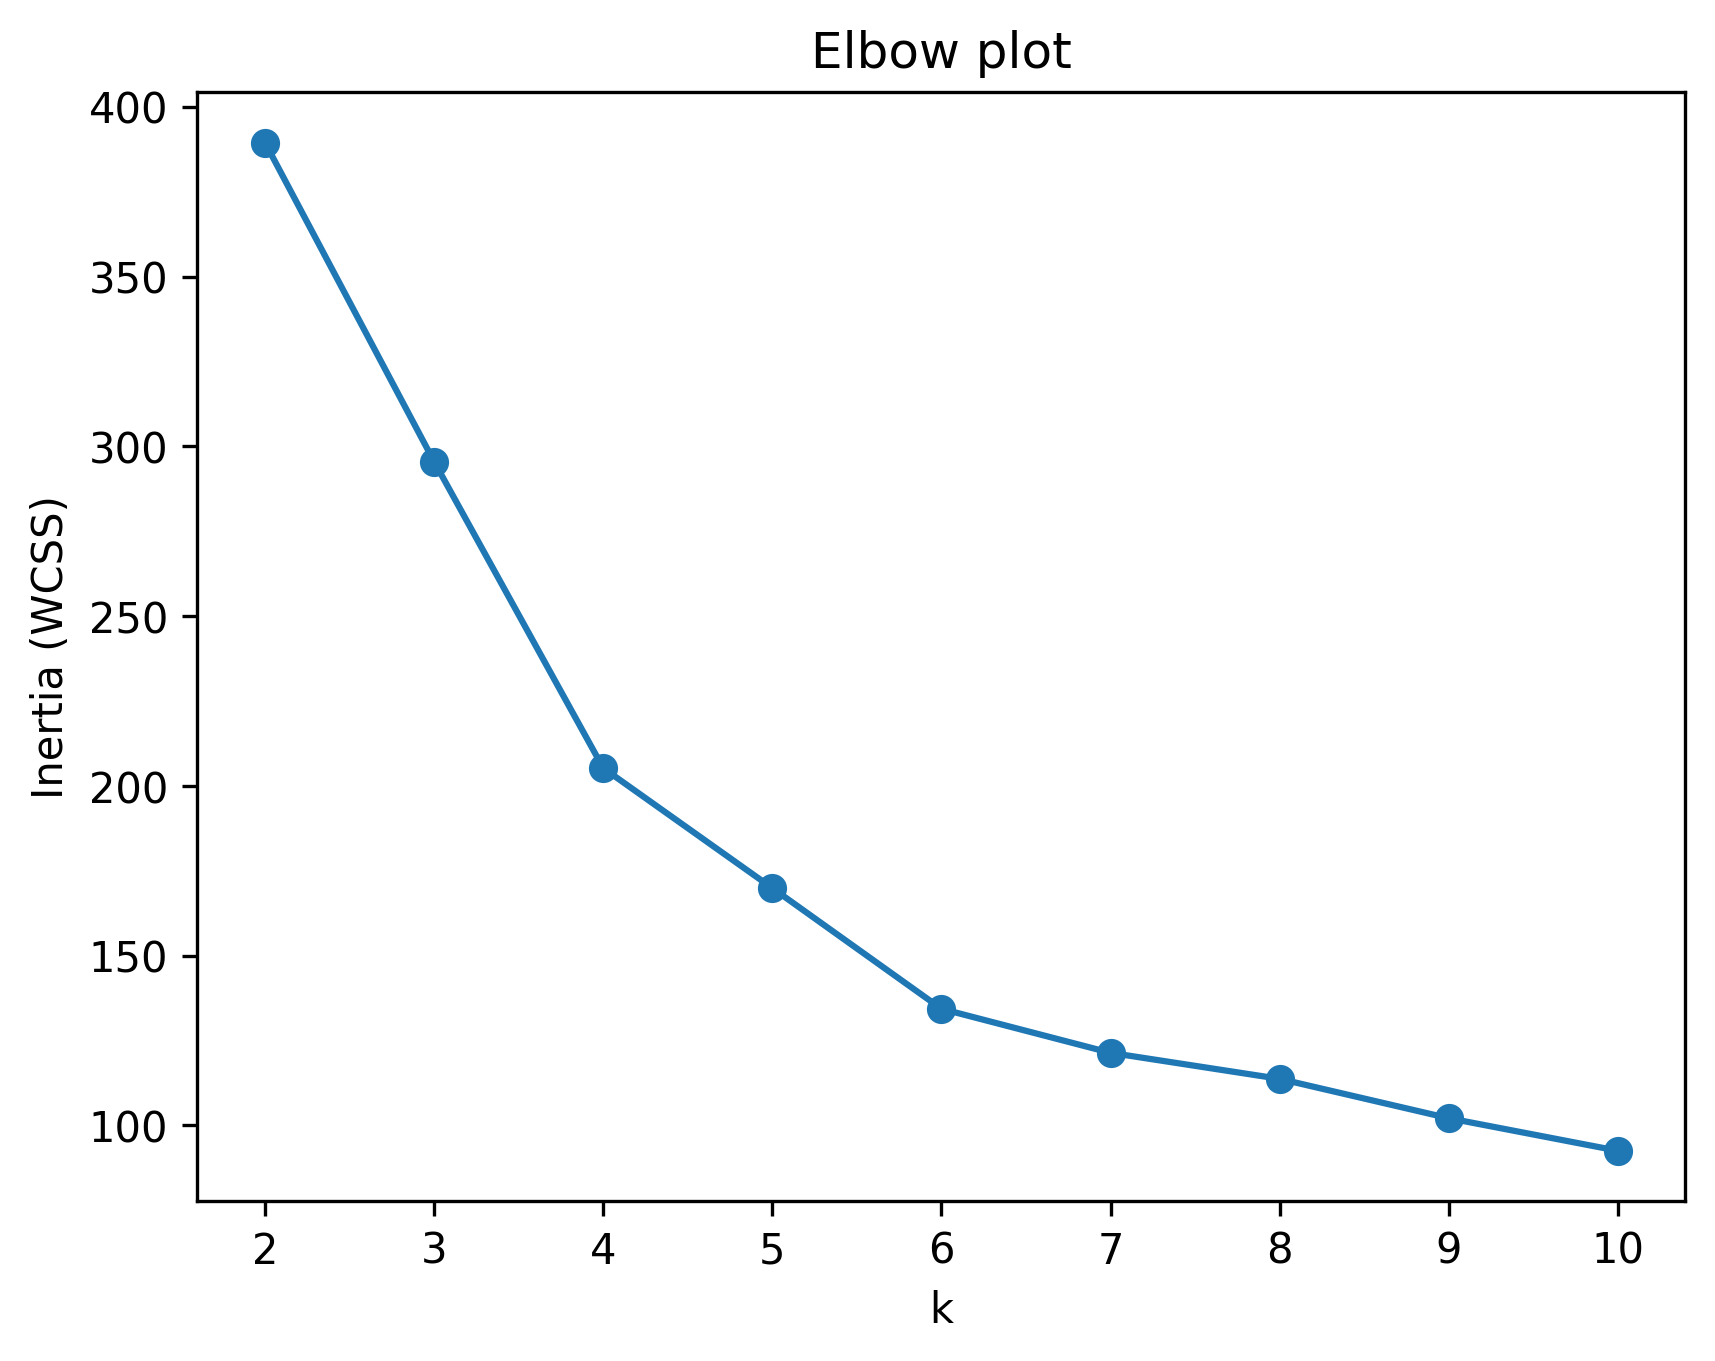
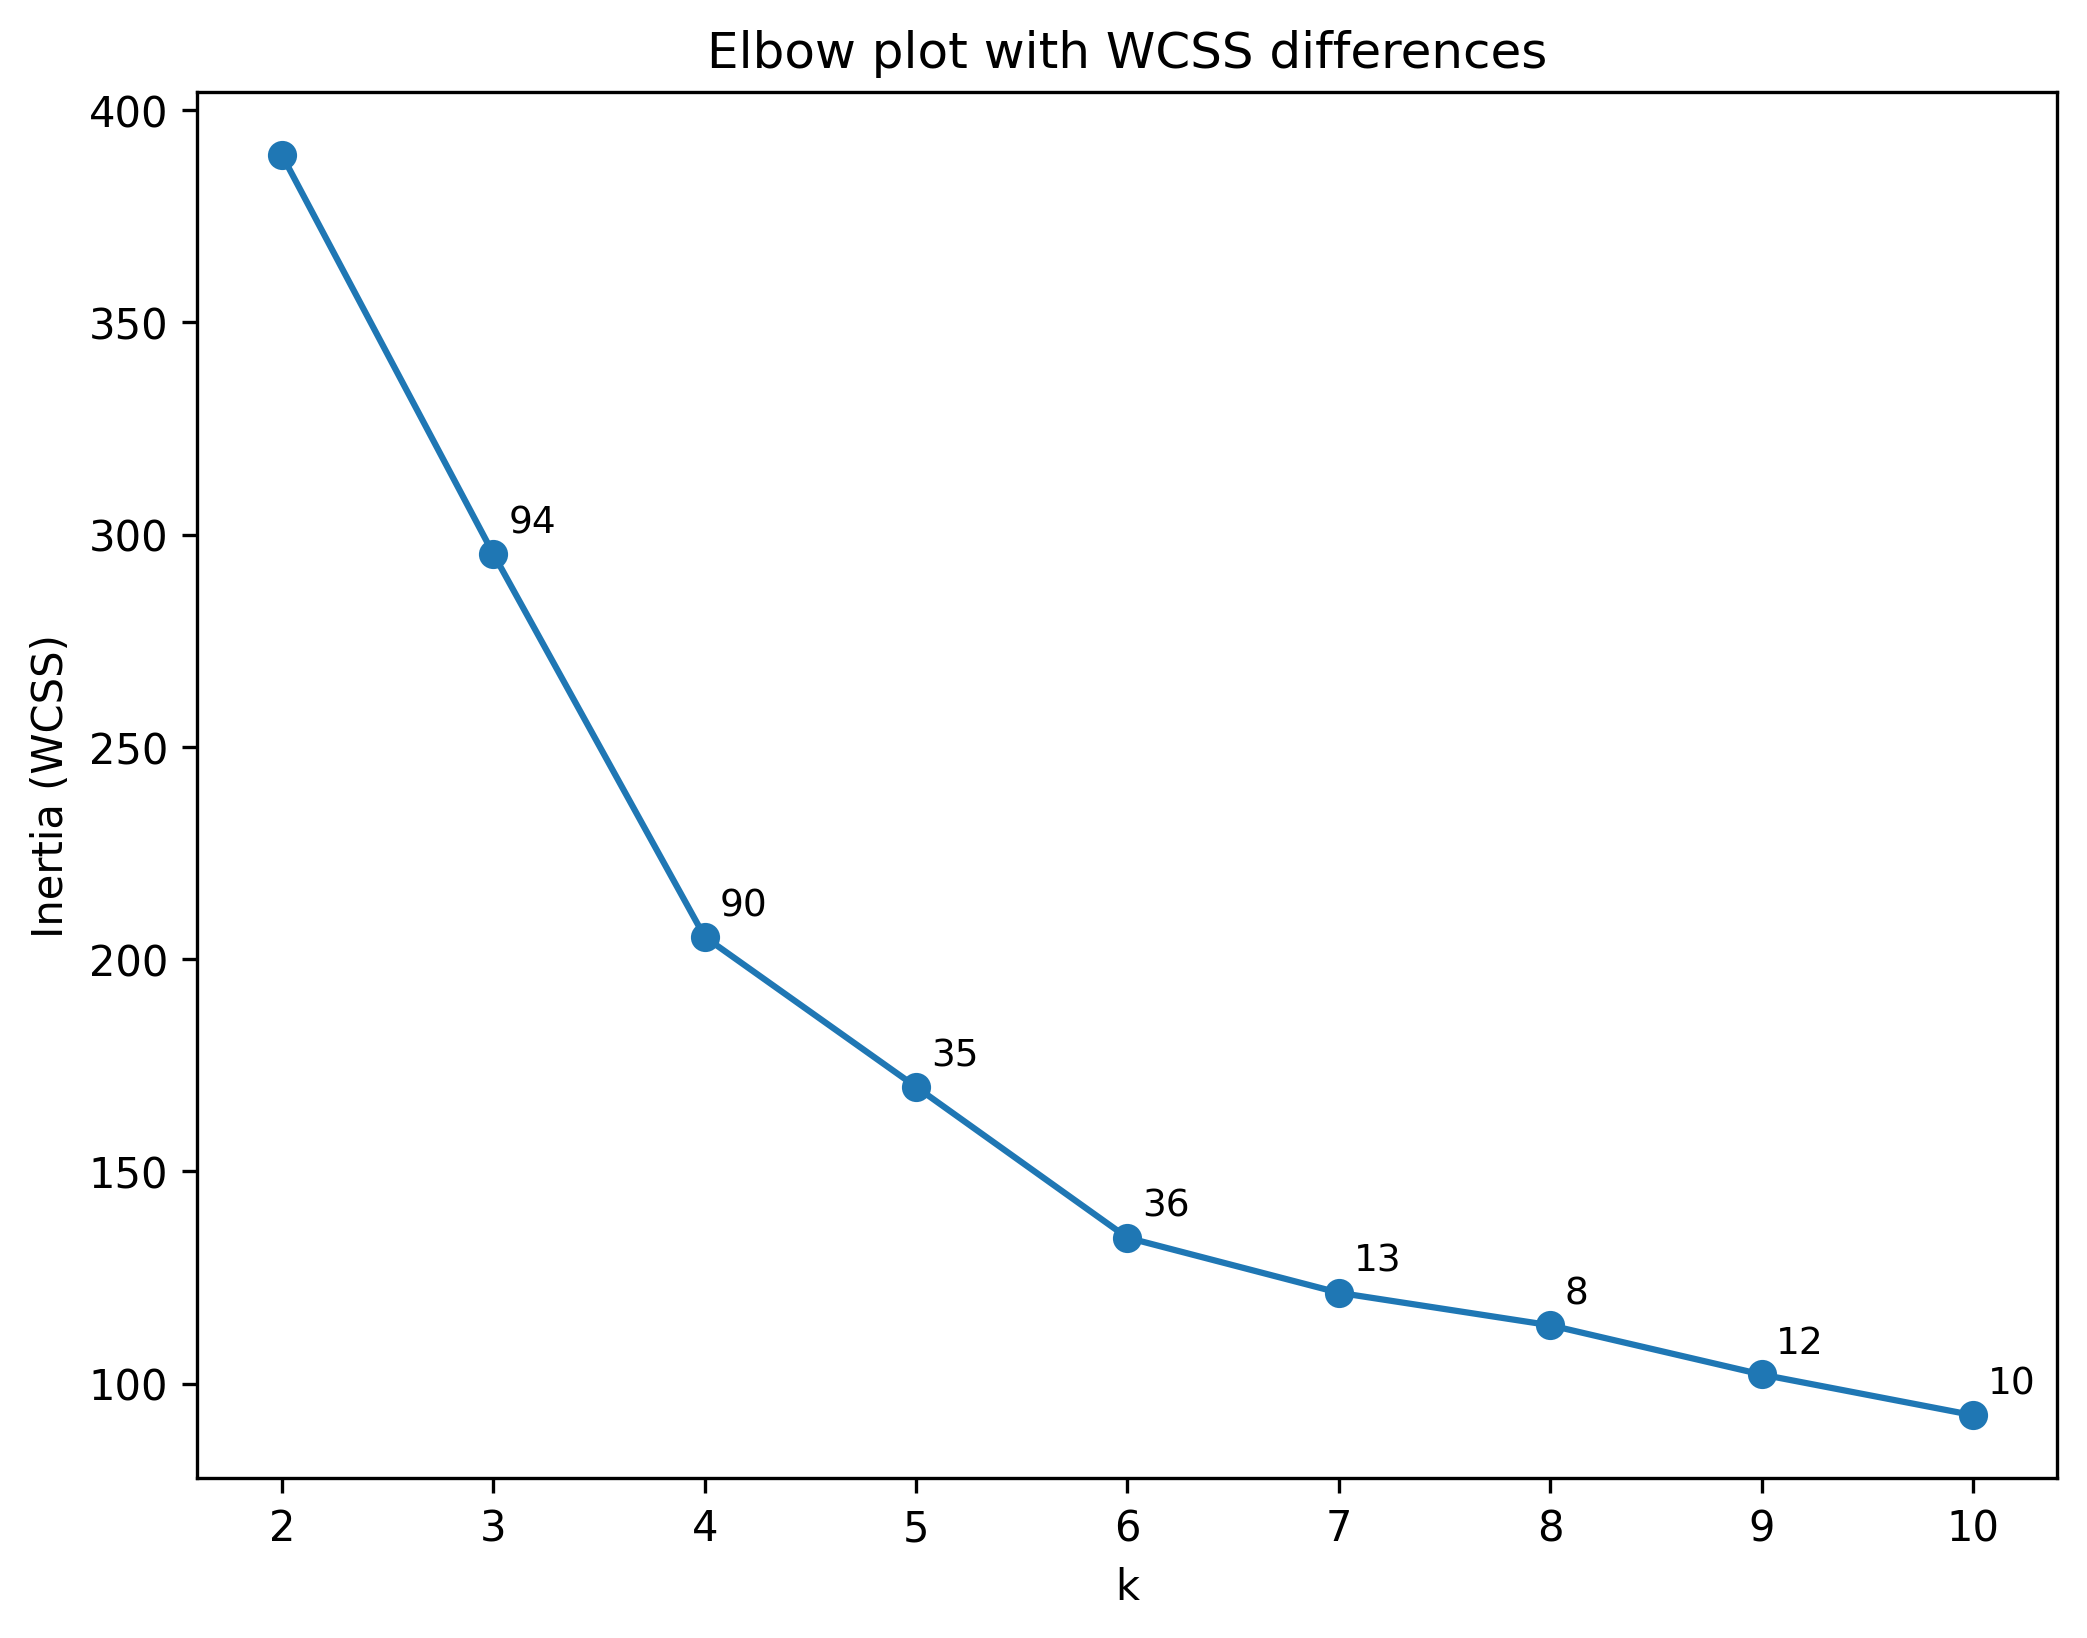
Updated plots

Changed region(s): [[0.0, 0.0, 0.9889, 0.9875]]

diff --git a/projects/kmeans_customer_segmentation/notebooks/clusters_3d.html b/projects/kmeans_customer_segmentation/notebooks/clusters_3d.html
@@ -1,0 +1,7 @@
+<html>
+<head><meta charset="utf-8" /></head>
+<body>
+    <div>                        <script>window.PlotlyConfig = {MathJaxConfig: 'local'};</script>
+        <script charset="utf-8" src="https://cdn.plot.ly/plotly-3.5.0.min.js" integrity="sha256-fHbNLP+GlIXN+efbQec78UkemUz3NJp7UmfGxC1tNxs=" crossorigin="anonymous"></script>                <div id="32b18536-afb1-4ba5-9e2a-629bae0655e2" class="plotly-graph-div" style="height:100%; width:100%;"></div>            <script>                window.PLOTLYENV=window.PLOTLYENV || {};                                if (document.getElementById("32b18536-afb1-4ba5-9e2a-629bae0655e2")) {                    Plotly.newPlot(                        "32b18536-afb1-4ba5-9e2a-629bae0655e2",                        [{"hovertemplate":"Age=%{x}\u003cbr\u003eAnnual_income_thousands=%{y}\u003cbr\u003eSpending_score=%{z}\u003cbr\u003ecluster=%{marker.color}\u003cextra\u003e\u003c\u002fextra\u003e","legendgroup":"","marker":{"color":{"dtype":"i4","bdata":"AgAAAAIAAAAFAAAAAgAAAAUAAAACAAAABQAAAAIAAAAFAAAAAgAAAAUAAAACAAAABQAAAAIAAAAFAAAAAgAAAAUAAAACAAAABQAAAAIAAAAFAAAAAgAAAAUAAAACAAAABQAAAAIAAAAFAAAAAgAAAAUAAAACAAAABQAAAAIAAAAFAAAAAgAAAAUAAAACAAAABQAAAAIAAAAFAAAAAgAAAAAAAAACAAAABQAAAAIAAAAFAAAAAgAAAAAAAAADAAAAAwAAAAMAAAAAAAAAAgAAAAMAAAAAAAAAAAAAAAAAAAAAAAAAAAAAAAMAAAAAAAAAAAAAAAMAAAAAAAAAAAAAAAAAAAADAAAAAAAAAAAAAAADAAAAAwAAAAAAAAAAAAAAAAAAAAAAAAAAAAAAAwAAAAAAAAADAAAAAwAAAAAAAAAAAAAAAwAAAAAAAAAAAAAAAwAAAAAAAAAAAAAAAwAAAAMAAAAAAAAAAAAAAAMAAAAAAAAAAwAAAAMAAAADAAAAAAAAAAMAAAAAAAAAAwAAAAMAAAAAAAAAAAAAAAMAAAAAAAAAAwAAAAAAAAAAAAAAAAAAAAAAAAAAAAAAAwAAAAMAAAADAAAAAwAAAAMAAAAAAAAAAAAAAAAAAAAAAAAAAwAAAAMAAAADAAAAAQAAAAMAAAABAAAABAAAAAEAAAAEAAAAAQAAAAQAAAABAAAAAwAAAAEAAAADAAAAAQAAAAQAAAABAAAAAwAAAAEAAAAEAAAAAQAAAAMAAAABAAAAAwAAAAEAAAAEAAAAAQAAAAQAAAABAAAABAAAAAEAAAAEAAAAAQAAAAQAAAABAAAABAAAAAEAAAAEAAAAAQAAAAAAAAABAAAAAwAAAAEAAAAEAAAAAQAAAAQAAAABAAAABAAAAAEAAAAEAAAAAQAAAAQAAAABAAAABAAAAAEAAAAEAAAAAQAAAAQAAAABAAAABAAAAAEAAAAEAAAAAQAAAAQAAAABAAAABAAAAAEAAAAEAAAAAQAAAAQAAAABAAAABAAAAAEAAAAEAAAAAQAAAAQAAAABAAAABAAAAAEAAAA="},"coloraxis":"coloraxis","opacity":0.85,"symbol":"circle"},"mode":"markers","name":"","scene":"scene","showlegend":false,"x":{"dtype":"i1","bdata":"ExUUFx8WIxdAHkMjOhglFiMUNCMjGS4fNh0tIygXPBU1EjEVKh4kFEEYMB8xGDIbHR8xIR87Mi8zRRs1RhNDNj8SK0QTIEYvPDw7Gi0oFzE5JkMuFTA3FiIyRBIwKCAYLxswFBcxQxoxFUI2REJBEyYTEhM\u002fMTMyGyYoJxcfKyg7Ji8nGR8UHSwgEyM5IBwgGRwwICIiKycsJi8bJR4iHjgdEx8yJCohJCAoHCQkNB46GzsjJSAuHSkeNhwpJCIgISYvIy0gIB4="},"y":{"dtype":"i2","bdata":"DwAPABAAEAARABEAEgASABMAEwATABMAFAAUABQAFAAVABUAFwAXABgAGAAZABkAHAAcABwAHAAdAB0AHgAeACEAIQAhACEAIgAiACUAJQAmACYAJwAnACcAJwAoACgAKAAoACoAKgArACsAKwArACwALAAuAC4ALgAuAC8ALwAwADAAMAAwADAAMAAxADEAMgAyADYANgA2ADYANgA2ADYANgA2ADYANgA2ADkAOQA6ADoAOwA7ADwAPAA8ADwAPAA8AD0APQA+AD4APgA+AD4APgA\u002fAD8APwA\u002fAD8APwBAAEAAQQBBAEEAQQBDAEMAQwBDAEUARQBGAEYARwBHAEcARwBHAEcASABIAEkASQBJAEkASgBKAEsASwBMAEwATQBNAE0ATQBOAE4ATgBOAE4ATgBOAE4ATgBOAE4ATgBPAE8AUQBRAFUAVQBWAFYAVwBXAFcAVwBXAFcAWABYAFgAWABdAF0AYQBhAGIAYgBjAGMAZQBlAGcAZwBnAGcAcQBxAHgAeAB+AH4AiQCJAA=="},"z":{"dtype":"i1","bdata":"J1EGTShMBl4DSA5jD00NTyNCHWIjSQVJDlIgPR9XBEkEXA5REUkaSyNcJD0cQTcvKio0PDY8LSkyLjMuODc0OzM7MjA7LzcqMTgvNjUwNCozNyksOS46NzwuNykxKCo0LzIqMSkwOzc4KjIuKzA0NiouMDIrOys5OCg6Wx1NI18LSwlLIkcFWAdJCkgFXShXDGEkShZaEVgUTBBZAU4BSSNTBV0aSxRfGz8NSwpcDVYPRQ5aIFYPWCdhGEQRVRdFCFsQTxxKElM="},"type":"scatter3d"},{"marker":{"line":{"color":"black","width":2},"size":8,"symbol":"x"},"mode":"markers","name":"Centroids","x":{"dtype":"f8","bdata":"q6qqqqoqTECKndiJnVhAQJDC9ShcjzlA\u002f\u002f\u002f\u002f\u002f\u002f8fOkAAAAAAAABGQDAMwzAMw0ZA"},"y":{"dtype":"f8","bdata":"IyIiIiIiS0AndmIndqJVQHoUrkfhejpAZmZmZma2TUCIiIiIiIhWQJIkSZIkSTpA"},"z":{"dtype":"f8","bdata":"iYiIiIiISECENEiDNIhUQI\u002fC9ShcD1NAmpmZmZk5RkDw7u7u7u4xQBiGYRiGYTNA"},"type":"scatter3d"}],                        {"template":{"data":{"histogram2dcontour":[{"type":"histogram2dcontour","colorbar":{"outlinewidth":0,"ticks":""},"colorscale":[[0.0,"#0d0887"],[0.1111111111111111,"#46039f"],[0.2222222222222222,"#7201a8"],[0.3333333333333333,"#9c179e"],[0.4444444444444444,"#bd3786"],[0.5555555555555556,"#d8576b"],[0.6666666666666666,"#ed7953"],[0.7777777777777778,"#fb9f3a"],[0.8888888888888888,"#fdca26"],[1.0,"#f0f921"]]}],"choropleth":[{"type":"choropleth","colorbar":{"outlinewidth":0,"ticks":""}}],"histogram2d":[{"type":"histogram2d","colorbar":{"outlinewidth":0,"ticks":""},"colorscale":[[0.0,"#0d0887"],[0.1111111111111111,"#46039f"],[0.2222222222222222,"#7201a8"],[0.3333333333333333,"#9c179e"],[0.4444444444444444,"#bd3786"],[0.5555555555555556,"#d8576b"],[0.6666666666666666,"#ed7953"],[0.7777777777777778,"#fb9f3a"],[0.8888888888888888,"#fdca26"],[1.0,"#f0f921"]]}],"heatmap":[{"type":"heatmap","colorbar":{"outlinewidth":0,"ticks":""},"colorscale":[[0.0,"#0d0887"],[0.1111111111111111,"#46039f"],[0.2222222222222222,"#7201a8"],[0.3333333333333333,"#9c179e"],[0.4444444444444444,"#bd3786"],[0.5555555555555556,"#d8576b"],[0.6666666666666666,"#ed7953"],[0.7777777777777778,"#fb9f3a"],[0.8888888888888888,"#fdca26"],[1.0,"#f0f921"]]}],"contourcarpet":[{"type":"contourcarpet","colorbar":{"outlinewidth":0,"ticks":""}}],"contour":[{"type":"contour","colorbar":{"outlinewidth":0,"ticks":""},"colorscale":[[0.0,"#0d0887"],[0.1111111111111111,"#46039f"],[0.2222222222222222,"#7201a8"],[0.3333333333333333,"#9c179e"],[0.4444444444444444,"#bd3786"],[0.5555555555555556,"#d8576b"],[0.6666666666666666,"#ed7953"],[0.7777777777777778,"#fb9f3a"],[0.8888888888888888,"#fdca26"],[1.0,"#f0f921"]]}],"surface":[{"type":"surface","colorbar":{"outlinewidth":0,"ticks":""},"colorscale":[[0.0,"#0d0887"],[0.1111111111111111,"#46039f"],[0.2222222222222222,"#7201a8"],[0.3333333333333333,"#9c179e"],[0.4444444444444444,"#bd3786"],[0.5555555555555556,"#d8576b"],[0.6666666666666666,"#ed7953"],[0.7777777777777778,"#fb9f3a"],[0.8888888888888888,"#fdca26"],[1.0,"#f0f921"]]}],"mesh3d":[{"type":"mesh3d","colorbar":{"outlinewidth":0,"ticks":""}}],"scatter":[{"fillpattern":{"fillmode":"overlay","size":10,"solidity":0.2},"type":"scatter"}],"parcoords":[{"type":"parcoords","line":{"colorbar":{"outlinewidth":0,"ticks":""}}}],"scatterpolargl":[{"type":"scatterpolargl","marker":{"colorbar":{"outlinewidth":0,"ticks":""}}}],"bar":[{"error_x":{"color":"#2a3f5f"},"error_y":{"color":"#2a3f5f"},"marker":{"line":{"color":"#E5ECF6","width":0.5},"pattern":{"fillmode":"overlay","size":10,"solidity":0.2}},"type":"bar"}],"scattergeo":[{"type":"scattergeo","marker":{"colorbar":{"outlinewidth":0,"ticks":""}}}],"scatterpolar":[{"type":"scatterpolar","marker":{"colorbar":{"outlinewidth":0,"ticks":""}}}],"histogram":[{"marker":{"pattern":{"fillmode":"overlay","size":10,"solidity":0.2}},"type":"histogram"}],"scattergl":[{"type":"scattergl","marker":{"colorbar":{"outlinewidth":0,"ticks":""}}}],"scatter3d":[{"type":"scatter3d","line":{"colorbar":{"outlinewidth":0,"ticks":""}},"marker":{"colorbar":{"outlinewidth":0,"ticks":""}}}],"scattermap":[{"type":"scattermap","marker":{"colorbar":{"outlinewidth":0,"ticks":""}}}],"scattermapbox":[{"type":"scattermapbox","marker":{"colorbar":{"outlinewidth":0,"ticks":""}}}],"scatterternary":[{"type":"scatterternary","marker":{"colorbar":{"outlinewidth":0,"ticks":""}}}],"scattercarpet":[{"type":"scattercarpet","marker":{"colorbar":{"outlinewidth":0,"ticks":""}}}],"carpet":[{"aaxis":{"endlinecolor":"#2a3f5f","gridcolor":"white","linecolor":"white","minorgridcolor":"white","startlinecolor":"#2a3f5f"},"baxis":{"endlinecolor":"#2a3f5f","gridcolor":"white","linecolor":"white","minorgridcolor":"white","startlinecolor":"#2a3f5f"},"type":"carpet"}],"table":[{"cells":{"fill":{"color":"#EBF0F8"},"line":{"color":"white"}},"header":{"fill":{"color":"#C8D4E3"},"line":{"color":"white"}},"type":"table"}],"barpolar":[{"marker":{"line":{"color":"#E5ECF6","width":0.5},"pattern":{"fillmode":"overlay","size":10,"solidity":0.2}},"type":"barpolar"}],"pie":[{"automargin":true,"type":"pie"}]},"layout":{"autotypenumbers":"strict","colorway":["#636efa","#EF553B","#00cc96","#ab63fa","#FFA15A","#19d3f3","#FF6692","#B6E880","#FF97FF","#FECB52"],"font":{"color":"#2a3f5f"},"hovermode":"closest","hoverlabel":{"align":"left"},"paper_bgcolor":"white","plot_bgcolor":"#E5ECF6","polar":{"bgcolor":"#E5ECF6","angularaxis":{"gridcolor":"white","linecolor":"white","ticks":""},"radialaxis":{"gridcolor":"white","linecolor":"white","ticks":""}},"ternary":{"bgcolor":"#E5ECF6","aaxis":{"gridcolor":"white","linecolor":"white","ticks":""},"baxis":{"gridcolor":"white","linecolor":"white","ticks":""},"caxis":{"gridcolor":"white","linecolor":"white","ticks":""}},"coloraxis":{"colorbar":{"outlinewidth":0,"ticks":""}},"colorscale":{"sequential":[[0.0,"#0d0887"],[0.1111111111111111,"#46039f"],[0.2222222222222222,"#7201a8"],[0.3333333333333333,"#9c179e"],[0.4444444444444444,"#bd3786"],[0.5555555555555556,"#d8576b"],[0.6666666666666666,"#ed7953"],[0.7777777777777778,"#fb9f3a"],[0.8888888888888888,"#fdca26"],[1.0,"#f0f921"]],"sequentialminus":[[0.0,"#0d0887"],[0.1111111111111111,"#46039f"],[0.2222222222222222,"#7201a8"],[0.3333333333333333,"#9c179e"],[0.4444444444444444,"#bd3786"],[0.5555555555555556,"#d8576b"],[0.6666666666666666,"#ed7953"],[0.7777777777777778,"#fb9f3a"],[0.8888888888888888,"#fdca26"],[1.0,"#f0f921"]],"diverging":[[0,"#8e0152"],[0.1,"#c51b7d"],[0.2,"#de77ae"],[0.3,"#f1b6da"],[0.4,"#fde0ef"],[0.5,"#f7f7f7"],[0.6,"#e6f5d0"],[0.7,"#b8e186"],[0.8,"#7fbc41"],[0.9,"#4d9221"],[1,"#276419"]]},"xaxis":{"gridcolor":"white","linecolor":"white","ticks":"","title":{"standoff":15},"zerolinecolor":"white","automargin":true,"zerolinewidth":2},"yaxis":{"gridcolor":"white","linecolor":"white","ticks":"","title":{"standoff":15},"zerolinecolor":"white","automargin":true,"zerolinewidth":2},"scene":{"xaxis":{"backgroundcolor":"#E5ECF6","gridcolor":"white","linecolor":"white","showbackground":true,"ticks":"","zerolinecolor":"white","gridwidth":2},"yaxis":{"backgroundcolor":"#E5ECF6","gridcolor":"white","linecolor":"white","showbackground":true,"ticks":"","zerolinecolor":"white","gridwidth":2},"zaxis":{"backgroundcolor":"#E5ECF6","gridcolor":"white","linecolor":"white","showbackground":true,"ticks":"","zerolinecolor":"white","gridwidth":2}},"shapedefaults":{"line":{"color":"#2a3f5f"}},"annotationdefaults":{"arrowcolor":"#2a3f5f","arrowhead":0,"arrowwidth":1},"geo":{"bgcolor":"white","landcolor":"#E5ECF6","subunitcolor":"white","showland":true,"showlakes":true,"lakecolor":"white"},"title":{"x":0.05},"mapbox":{"style":"light"}}},"scene":{"domain":{"x":[0.0,1.0],"y":[0.0,1.0]},"xaxis":{"title":{"text":"Age"}},"yaxis":{"title":{"text":"Annual_income_thousands"}},"zaxis":{"title":{"text":"Spending_score"}}},"coloraxis":{"colorbar":{"title":{"text":"cluster"}},"colorscale":[[0.0,"#0d0887"],[0.1111111111111111,"#46039f"],[0.2222222222222222,"#7201a8"],[0.3333333333333333,"#9c179e"],[0.4444444444444444,"#bd3786"],[0.5555555555555556,"#d8576b"],[0.6666666666666666,"#ed7953"],[0.7777777777777778,"#fb9f3a"],[0.8888888888888888,"#fdca26"],[1.0,"#f0f921"]]},"legend":{"tracegroupgap":0,"itemsizing":"constant"},"margin":{"t":60},"title":{"text":"KMeans clusters (3D) with centroids"}},                        {"responsive": true}                    )                };            </script>        </div>
+</body>
+</html>